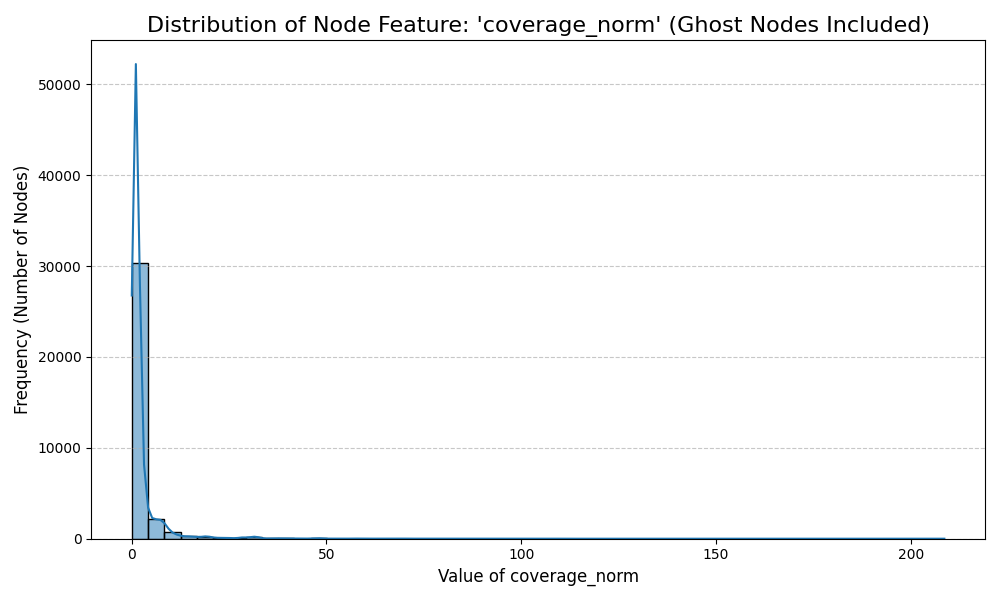
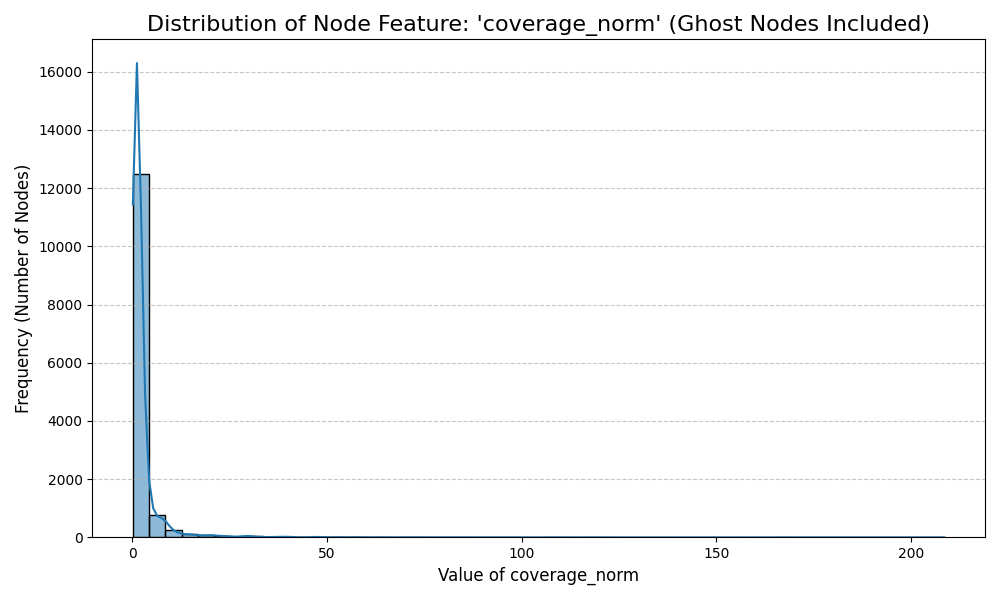
refactor: Implement sample-wise cross-validation using isolated sub-graphs to prevent data leakage

diff --git a/plasgraph/engine.py b/plasgraph/engine.py
@@ -28,7 +28,7 @@ import torch.profiler
 import torch.distributed as dist
 
 
-def objective(trial, accelerator, parameters, data, splits, labeled_indices):
+def objective(trial, accelerator, parameters, data, sample_splits, all_sample_ids, labeled_indices):
     """
     Optuna objective function with K-fold cross-validation.
     """
@@ -62,14 +62,45 @@ def objective(trial, accelerator, parameters, data, splits, labeled_indices):
     # move the graph data object to the correct device
     data = data.to(device)
 
+    unique_samples_from_graph = sorted(list(set(node_id.split(':')[0] for node_id in data.node_list)))
+    sample_to_batch_idx = {sample_id: i for i, sample_id in enumerate(unique_samples_from_graph)}
+
     fold_aurocs = []
 
-    # k-fold cross-validation loop
-    for fold_idx, (train_idx, val_idx) in enumerate(splits):
+    labeled_nodes_set = set(labeled_indices)
 
-        # get the actual node indices for the training and validation sets for this fold
-        train_fold_indices = labeled_indices[train_idx]
-        val_fold_indices = labeled_indices[val_idx]
+    # k-fold cross-validation loop
+    for fold_idx, (train_sample_indices, val_sample_indices) in enumerate(sample_splits):
+
+        train_samples = all_sample_ids[train_sample_indices]
+        val_samples = all_sample_ids[val_sample_indices]
+
+        train_batch_indices = [sample_to_batch_idx[sid] for sid in train_samples]
+        val_batch_indices = [sample_to_batch_idx[sid] for sid in val_samples]
+
+        train_mask = torch.isin(data.batch, torch.tensor(train_batch_indices, device=data.batch.device))
+        val_mask = torch.isin(data.batch, torch.tensor(val_batch_indices, device=data.batch.device))
+
+        train_node_indices = torch.where(train_mask)[0]
+        val_node_indices = torch.where(val_mask)[0]
+
+        train_data = data.subgraph(train_node_indices)
+        val_data = data.subgraph(val_node_indices)
+
+        train_nodes_global_set = set(train_node_indices.cpu().numpy())
+        val_nodes_global_set = set(val_node_indices.cpu().numpy())
+
+        train_fold_labeled_global = torch.tensor(sorted(list(train_nodes_global_set.intersection(labeled_nodes_set))), dtype=torch.long)
+        val_fold_labeled_global = torch.tensor(sorted(list(val_nodes_global_set.intersection(labeled_nodes_set))), dtype=torch.long)
+
+        global_to_local_train_map = {global_idx.item(): local_idx for local_idx, global_idx in enumerate(train_data.n_id)}
+        local_train_seed_indices = torch.tensor([global_to_local_train_map[global_idx.item()] for global_idx in train_fold_labeled_global], dtype=torch.long)
+
+        global_to_local_val_map = {global_idx.item(): local_idx for local_idx, global_idx in enumerate(val_data.n_id)}
+        local_val_seed_indices = torch.tensor([global_to_local_val_map[global_idx.item()] for global_idx in val_fold_labeled_global], dtype=torch.long)
+
+        if len(local_train_seed_indices) == 0 or len(local_val_seed_indices) == 0:
+            continue
         
         # initialize the model
         if trial_config_obj['model_type'] == 'GCNModel':
@@ -86,8 +117,8 @@ def objective(trial, accelerator, parameters, data, splits, labeled_indices):
 
         # NeighborLoader for the training set of this fold
         train_loader = NeighborLoader(
-            data,
-            input_nodes=torch.from_numpy(train_fold_indices).to(data.x.device), # specify seed nodes
+            train_data,
+            input_nodes=local_train_seed_indices.to(device)
             num_neighbors=neighbors_list,                                       # neighborhood sampling sizes
             shuffle=True,                                                       # shuffle the data at each epoch
             batch_size=trial_config_obj['batch_size'],                          # use the batch size suggested by Optuna
@@ -97,8 +128,8 @@ def objective(trial, accelerator, parameters, data, splits, labeled_indices):
 
         # NeighborLoader for the validation set of this fold
         val_loader = NeighborLoader(
-            data,
-            input_nodes=torch.from_numpy(val_fold_indices).to(data.x.device),
+            val_data,
+            input_nodes=local_val_seed_indices.to(device)
             num_neighbors=neighbors_list,
             shuffle=False,                                                      # no need to shuffle validation data
             batch_size=trial_config_obj['batch_size'],
@@ -202,7 +233,8 @@ def objective(trial, accelerator, parameters, data, splits, labeled_indices):
 
 
 
-def train_final_model(parameters, data, splits, labeled_indices, log_dir, G, node_list):
+def train_final_model(parameters, data, sample_splits, all_sample_ids, labeled_indices, log_dir, G, node_list):
+    
     """
     Trains K-fold models on a single GPU and saves each one for ensembling.
     This version is aligned with the trial training logic for consistency.
@@ -230,6 +262,10 @@ def train_final_model(parameters, data, splits, labeled_indices, log_dir, G, nod
     cv_plots_dir = os.path.join(log_dir, "cv_fold_plots")
     os.makedirs(cv_plots_dir, exist_ok=True)
 
+    unique_samples_from_graph = sorted(list(set(node_id.split(':')[0] for node_id in data.node_list)))
+    sample_to_batch_idx = {sample_id: i for i, sample_id in enumerate(unique_samples_from_graph)}
+    labeled_nodes_set = set(labeled_indices)
+
     # define the neighborhood sampling sizes
     n_layers = parameters['n_gnn_layers']
     first_hop_neighbors = parameters['neighbors_first_hop']
@@ -238,12 +274,27 @@ def train_final_model(parameters, data, splits, labeled_indices, log_dir, G, nod
     neighbors_list = [first_hop_neighbors] + [subsequent_hop_neighbors] * (n_layers - 1)
 
     # start the main loop to iterate through each cross-validation fold
-    for fold_idx, (train_idx, val_idx) in enumerate(splits):
-        print(f"\n--- Running Fold {fold_idx + 1}/{len(splits)} ---")
+    for fold_idx, (train_sample_indices, val_sample_indices) in enumerate(sample_splits):
+        print(f"\n--- Running Fold {fold_idx + 1}/{len(sample_splits)} ---")
 
-        # get the global indices for the training and validation nodes for the current fold
-        train_fold_indices = labeled_indices[train_idx]
-        val_fold_indices = labeled_indices[val_idx]
+        train_samples = all_sample_ids[train_sample_indices]
+        val_samples = all_sample_ids[val_sample_indices]
+        train_batch_indices = [sample_to_batch_idx[sid] for sid in train_samples]
+        val_batch_indices = [sample_to_batch_idx[sid] for sid in val_samples]
+
+        train_mask = torch.isin(data.batch, torch.tensor(train_batch_indices, device=data.batch.device))
+        val_mask = torch.isin(data.batch, torch.tensor(val_batch_indices, device=data.batch.device))
+        train_node_indices = torch.where(train_mask)[0]
+        val_node_indices = torch.where(val_mask)[0]
+
+        train_data = data.subgraph(train_node_indices)
+        val_data = data.subgraph(val_node_indices)
+        print(f"  Train samples: {len(train_samples)}, Nodes: {train_data.num_nodes} | Val samples: {len(val_samples)}, Nodes: {val_data.num_nodes}")
+
+        train_nodes_global_set = set(train_node_indices.cpu().numpy())
+        train_fold_labeled_global = torch.tensor(sorted(list(train_nodes_global_set.intersection(labeled_nodes_set))), dtype=torch.long)
+        global_to_local_train_map = {global_idx.item(): local_idx for local_idx, global_idx in enumerate(train_data.n_id)}
+        local_train_seed_indices = torch.tensor([global_to_local_train_map[global_idx.item()] for global_idx in train_fold_labeled_global], dtype=torch.long)
 
         if parameters['model_type'] == 'GCNModel':
             model = GCNModel(parameters).to(device)
@@ -264,8 +315,8 @@ def train_final_model(parameters, data, splits, labeled_indices, log_dir, G, nod
             num_workers = 0
 
         train_loader = NeighborLoader(
-            data,
-            input_nodes=torch.from_numpy(train_fold_indices).to(device),
+            train_data,
+            input_nodes=local_train_seed_indices.to(device),
             num_neighbors=neighbors_list,
             shuffle=True,
             batch_size=parameters['batch_size'],
@@ -274,8 +325,8 @@ def train_final_model(parameters, data, splits, labeled_indices, log_dir, G, nod
         )
 
         val_loader = NeighborLoader(
-            data,
-            input_nodes=torch.from_numpy(val_fold_indices).to(device),
+            val_data,
+            input_nodes=None,
             num_neighbors=neighbors_list,
             shuffle=False,
             batch_size=parameters['batch_size'],
@@ -283,13 +334,9 @@ def train_final_model(parameters, data, splits, labeled_indices, log_dir, G, nod
             pin_memory=True,
         )
 
-        best_val_loss_for_fold = float("inf")
-        patience_for_fold = 0
-        best_epoch_for_fold = 0
+        best_val_loss_for_fold, patience_for_fold, best_epoch_for_fold = float("inf"), 0, 0
         best_model_state_for_fold = None
-        
         train_losses_fold, val_losses_fold = [], []
-
         plot_frequency = max(1, parameters["epochs"] // 10)
 
         for epoch in range(parameters["epochs"]):
@@ -304,16 +351,13 @@ def train_final_model(parameters, data, splits, labeled_indices, log_dir, G, nod
                 utils.fix_gradients(parameters, model)
                 optimizer.step()
                 total_train_loss += loss.item()
-
-            # gradient magnitude plotting (first fold only)
-            if fold_idx == 0: 
-                grad_data = utils.get_gradient_magnitudes(model)
-                utils.plot_gradient_magnitudes(grad_data, epoch + 1, cv_plots_dir, plot_frequency=plot_frequency)
             
-            avg_train_loss = total_train_loss / len(train_loader)
+            avg_train_loss = total_train_loss / len(train_loader) if len(train_loader) > 0 else 0
             train_losses_fold.append(avg_train_loss)
 
-            # validation loop
+            if fold_idx == 0: 
+                utils.plot_gradient_magnitudes(utils.get_gradient_magnitudes(model), epoch + 1, cv_plots_dir, plot_frequency=plot_frequency)
+            
             model.eval()
             total_val_loss = 0
             with torch.no_grad():
@@ -323,9 +367,8 @@ def train_final_model(parameters, data, splits, labeled_indices, log_dir, G, nod
                     val_loss = criterion(outputs, batch.y)
                     total_val_loss += val_loss.item()
             
-            avg_val_loss = total_val_loss / len(val_loader)
+            avg_val_loss = total_val_loss / len(val_loader) if len(val_loader) > 0 else 0
             val_losses_fold.append(avg_val_loss)
-
             scheduler.step(avg_val_loss)
 
             if (epoch + 1) % 10 == 0 or (epoch + 1) == parameters["epochs"]:
@@ -350,18 +393,7 @@ def train_final_model(parameters, data, splits, labeled_indices, log_dir, G, nod
             torch.save(best_model_state_for_fold, model_save_path)
             print(f"  > Saved best model for fold {fold_idx + 1} to: {model_save_path}")
 
-            plt.figure(figsize=(10, 6))
-            plt.plot(train_losses_fold, label='Train Loss')
-            plt.plot(val_losses_fold, label='Validation Loss')
-            plt.axvline(x=best_epoch_for_fold - 1, color='r', linestyle='--', label=f'Best Epoch ({best_epoch_for_fold})')
-            plt.title(f'Fold {fold_idx + 1} Training History')
-            plt.xlabel('Epoch')
-            plt.ylabel('Loss')
-            plt.legend()
-            plt.grid(True)
-            plot_path = os.path.join(cv_plots_dir, f"cv_loss_fold_{fold_idx + 1}.png")
-            plt.savefig(plot_path)
-            plt.close()
+            plt.figure(figsize=(10, 6)); plt.plot(train_losses_fold, label='Train Loss'); plt.plot(val_losses_fold, label='Validation Loss'); plt.axvline(x=best_epoch_for_fold - 1, color='r', linestyle='--', label=f'Best Epoch ({best_epoch_for_fold})'); plt.title(f'Fold {fold_idx + 1} Training History'); plt.xlabel('Epoch'); plt.ylabel('Loss'); plt.legend(); plt.grid(True); plot_path = os.path.join(cv_plots_dir, f"cv_loss_fold_{fold_idx + 1}.png"); plt.savefig(plot_path); plt.close()
             print(f"  > Saved loss plot to: {plot_path}")
 
             if parameters['model_type'] == 'GCNModel':
@@ -372,7 +404,6 @@ def train_final_model(parameters, data, splits, labeled_indices, log_dir, G, nod
             inference_model.load_state_dict(best_model_state_for_fold)
             inference_model.eval()
 
-            # get predictions (probabilities) on the validation set for this fold
             all_probs_val, all_true_val = [], []
             with torch.no_grad():
                 for batch in val_loader:
@@ -381,49 +412,35 @@ def train_final_model(parameters, data, splits, labeled_indices, log_dir, G, nod
                     all_probs_val.append(torch.sigmoid(outputs))
                     all_true_val.append(batch.y)
             
-            # concatenate the lists of tensors into single tensors
             y_probs_val_fold = torch.cat(all_probs_val).cpu()
             y_true_val_fold = torch.cat(all_true_val).cpu()
 
-            # determine the optimal classification thresholds from the validation predictions
             fold_params = copy.deepcopy(parameters)
             utils.set_thresholds_from_predictions(y_true_val_fold, y_probs_val_fold, fold_params, log_dir)
             
-            # save the determined thresholds to a YAML file for later use
             threshold_save_path = os.path.join(ensemble_models_dir, f"fold_{fold_idx + 1}_thresholds.yaml")
-            threshold_data = {
-                'plasmid_threshold': fold_params['plasmid_threshold'],
-                'chromosome_threshold': fold_params['chromosome_threshold']
-            }
             with open(threshold_save_path, 'w') as f:
-                yaml.dump(threshold_data, f)
+                yaml.dump({'plasmid_threshold': fold_params['plasmid_threshold'], 'chromosome_threshold': fold_params['chromosome_threshold']}, f)
             print(f"  > Fold {fold_idx+1} thresholds saved to: {threshold_save_path}")
 
             print(f"\n--- Evaluating Fold {fold_idx + 1} Model on its Full Validation Set ---")
-
-            # apply the just-determined thresholds to get final binary predictions
-            final_scores_val_fold = torch.from_numpy(
-                utils.apply_thresholds(y_probs_val_fold.numpy(), fold_params)
-            ).to(device)
             
-            y_probs_val_fold = y_probs_val_fold.to(device)
-            val_fold_indices_global = torch.from_numpy(val_fold_indices).to(device)
+            # 9. Scatter validation predictions back to full-size tensors for metric calculation
+            final_scores_val_fold = torch.from_numpy(utils.apply_thresholds(y_probs_val_fold.numpy(), fold_params))
+            
+            # Global indices of the nodes that were in the validation subgraph
+            val_node_indices_global = val_node_indices.cpu()
 
-            raw_probs_full = torch.zeros_like(data.y, dtype=torch.float, device=device)
-            final_scores_full = torch.zeros_like(data.y, dtype=torch.float, device=device)
+            raw_probs_full = torch.zeros_like(data.y, dtype=torch.float, device='cpu')
+            final_scores_full = torch.zeros_like(data.y, dtype=torch.float, device='cpu')
 
-            # place the validation predictions into the full tensors at their correct global indices
-            raw_probs_full.scatter_(0, val_fold_indices_global.unsqueeze(1).expand(-1, 2), y_probs_val_fold)
-            final_scores_full.scatter_(0, val_fold_indices_global.unsqueeze(1).expand(-1, 2), final_scores_val_fold)
+            raw_probs_full.scatter_(0, val_node_indices_global.unsqueeze(1).expand(-1, 2), y_probs_val_fold)
+            final_scores_full.scatter_(0, val_node_indices_global.unsqueeze(1).expand(-1, 2), final_scores_val_fold)
 
-            # create a mask to identify which nodes were part of the validation set
-            masks_validate = torch.zeros(data.num_nodes, dtype=torch.float32, device=device)
-            masks_validate[val_fold_indices_global] = 1.0
+            masks_validate = torch.zeros(data.num_nodes, dtype=torch.float32, device='cpu')
+            masks_validate[val_node_indices_global] = 1.0
 
-            # call the metrics function to calculate and print detailed performance scores
-            calculate_and_print_metrics(
-                final_scores_full, raw_probs_full, data, masks_validate, G, node_list, verbose=False
-            )
+            calculate_and_print_metrics(final_scores_full.to(device), raw_probs_full.to(device), data, masks_validate.to(device), G, node_list, verbose=False)
 
 
 

diff --git a/scripts/train.py b/scripts/train.py
@@ -78,27 +78,35 @@ def main():
     node_list = all_graphs.node_list
 
     print(f"✅ Using model architecture: {parameters['model_type']}")
+    
+    
+    all_sample_ids = np.array(sorted(list(set(G.nodes[node_id]["sample"] for node_id in node_list))))
+    print(f"✅ Found {len(all_sample_ids)} unique samples for splitting.")
+
+    # Get indices of all nodes that have a label
     labeled_indices = np.array([i for i, node_id in enumerate(node_list) if G.nodes[node_id]["text_label"] != "unlabeled"])
 
     if args.training_mode == 'k-fold':
-        print(f"✅ Setting up {parameters['k_folds']}-fold cross-validation.")
+        print(f"✅ Setting up {parameters['k_folds']}-fold cross-validation based on samples.")
         kf = KFold(n_splits=parameters["k_folds"], shuffle=True, random_state=parameters["random_seed"])
-        splits = list(kf.split(labeled_indices))
-    else:
-        print("✅ Setting up single-fold training with an 80/20 train/validation split.")
-        # Create a single 80/20 split
-        train_idx, val_idx = train_test_split(
-            np.arange(len(labeled_indices)), # Split the indices of the labeled_indices array
+        # Create splits based on the indices of the sample IDs array
+        splits = list(kf.split(all_sample_ids))
+    else: # single-fold
+        print("✅ Setting up single-fold training with an 80/20 train/validation split based on samples.")
+        # Create a single 80/20 split of sample IDs
+        train_s_idx, val_s_idx = train_test_split(
+            np.arange(len(all_sample_ids)), # Split the indices of the sample_ids array
             test_size=0.2,
             random_state=parameters["random_seed"],
             shuffle=True
         )
         # The train_final_model function expects a list of splits
-        splits = [(train_idx, val_idx)]
+        splits = [(train_s_idx, val_s_idx)]
+
 
     # train the K-fold ensemble
     train_final_model(
-        parameters, data, splits, labeled_indices, log_dir, G, node_list
+        parameters, data, splits, all_sample_ids, labeled_indices, log_dir, G, node_list
     )
 
     # save the final base configuration file for future predictions

diff --git a/plasgraph/data.py b/plasgraph/data.py
@@ -258,6 +258,9 @@ class Dataset_Pytorch(InMemoryDataset):
         loaded_data = torch.load(self.processed_paths[0], weights_only=False)
         self.data, self.slices, self.G, self.node_list = loaded_data
 
+        if not hasattr(self.data, 'node_list'):
+            self.data.node_list = self.node_list
+
     # tells the InMemoryDataset framework what the final, cached file containing the processed data should be named
     @property
     def processed_file_names(self):
@@ -387,6 +390,8 @@ class Dataset_Pytorch(InMemoryDataset):
             edge_attr=torch.tensor(edge_attr_list, dtype=torch.float),  # edge features
             batch=batch_tensor                                          # maps nodes to samples
         )
+
+        data.node_list = self.node_list
         
         # use the parent class's collate method to prepare the data for batching
         processed_data, slices = self.collate([data])
